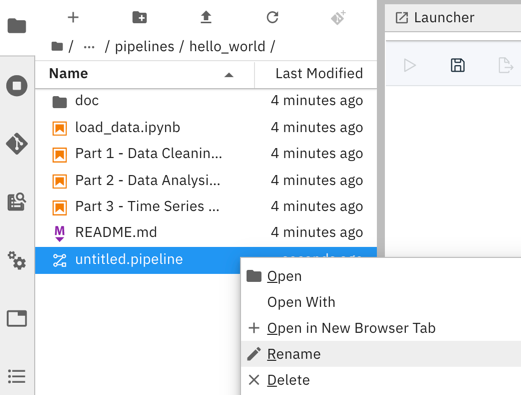
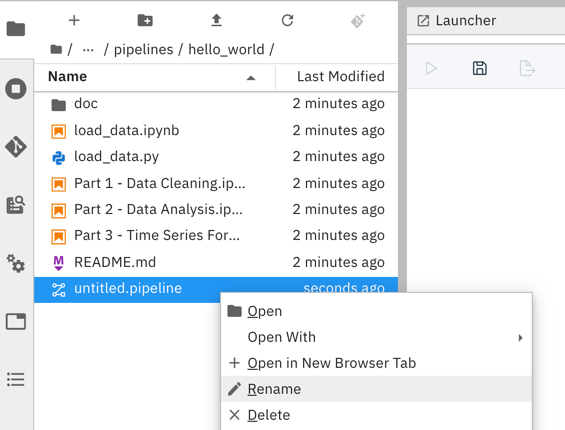
update hello_world example

diff --git a/pipelines/hello_world/load_data.py b/pipelines/hello_world/load_data.py
@@ -1,0 +1,51 @@
+#
+# Copyright 2020 IBM Corporation
+#
+# Licensed under the Apache License, Version 2.0 (the "License");
+# you may not use this file except in compliance with the License.
+# You may obtain a copy of the License at
+#
+# http://www.apache.org/licenses/LICENSE-2.0
+#
+# Unless required by applicable law or agreed to in writing, software
+# distributed under the License is distributed on an "AS IS" BASIS,
+# WITHOUT WARRANTIES OR CONDITIONS OF ANY KIND, either express or implied.
+# See the License for the specific language governing permissions and
+# limitations under the License.
+#
+import os
+from pathlib import Path
+import requests
+import tarfile
+from urllib.parse import urlparse
+
+
+if os.environ.get('DATASET_URL') is None:
+    raise RuntimeError('Cannot run script. Required environment variable DATASET_URL is not defined.')
+    
+data_file = os.environ['DATASET_URL']
+
+data_dir_name = 'data'
+
+print('Downloading data file {} ...'.format(data_file))
+r = requests.get(data_file)
+if r.status_code != 200:
+    raise RuntimeError('Could not fetch {}: HTTP status code {}'.format(data_file, r.status_code))
+else:
+    # extract data set file name from URL 
+    data_file_name = Path((urlparse(data_file).path)).name
+    # create the directory where the downloaded file will be stored
+    data_dir = Path(data_dir_name)    
+    data_dir.mkdir(parents=True, exist_ok=True)
+    downloaded_data_file = data_dir / data_file_name
+
+    print('Saving downloaded file "{}" as ...'.format(data_file_name))
+    with open(downloaded_data_file, 'wb') as downloaded_file:
+        downloaded_file.write(r.content)
+    
+    if r.headers['content-type'] == 'application/x-tar':
+        print('Extracting downloaded file in directory "{}" ...'.format(data_dir))
+        with tarfile.open(downloaded_data_file, 'r') as tar:
+            tar.extractall(data_dir)
+        print('Removing downloaded file ...')
+        downloaded_data_file.unlink()

diff --git a/pipelines/hello_world/README.md b/pipelines/hello_world/README.md
@@ -1,12 +1,12 @@
-## Getting started with notebook pipelines
+## Getting started with AI workflow pipelines
 
-A notebook pipeline comprises of notebook nodes that are connected with each other. 
+A workflow pipeline comprises of notebook nodes or Python script nodes that are connected with each other. 
 
-![The completed tutorial pipeline](doc/images/completed_tutorial_pipeline.png)
+![The completed tutorial pipeline](doc/images/tutorial_pipeline.png)
 
-In this tutorial you will learn how to create a notebook pipeline and run it in your local development environment. When you run a notebook pipeline in your local environment, each notebook is executed in a Kernel on the machine where JupyterLab is running, such as your laptop. Since resources on that machine might be limited local pipeline execution might not always be a viable option.
+In this tutorial you will learn how to create a workflow pipeline and run it in your local development environment. When you run a pipeline in your local environment, each notebook or Python script is executed in a Kernel on the machine where JupyterLab is running, such as your laptop. Since resources on that machine might be limited local pipeline execution might not always be a viable option.
 
- The [Hello World Kubeflow Pipelines tutorial](https://github.com/elyra-ai/examples/tree/master/pipelines/hello_world_kubeflow_pipelines) is similar to this tutorial but runs the notebook pipeline on Kubeflow Pipelines, enabling you to take advantage of shared compute resources in the cloud that might dramatically reduce pipeline processing time or allow for processing of much larger data volumes.
+ The [Hello World Kubeflow Pipelines tutorial](https://github.com/elyra-ai/examples/tree/master/pipelines/hello_world_kubeflow_pipelines) is similar to this tutorial but runs the pipeline on Kubeflow Pipelines, enabling you to take advantage of shared compute resources in the cloud that might dramatically reduce pipeline processing time or allow for processing of much larger data volumes.
 
 ### Prerequisites
 
@@ -44,29 +44,29 @@ You are ready to start the tutorial.
 
 Next, you'll add a notebook to the pipeline that downloads an open data set archive from public cloud storage.
 
-### Adding a notebook to the pipeline
+### Adding a notebook or script to the pipeline
 
-1. From the _File Browser_ pane drag the `load_data.ipynb` notebook onto the canvas.
+1. From the _File Browser_ pane drag the `load_data.ipynb` notebook onto the canvas. If you  like, you can add the `load_data.py` Python script instead. The script provides the same functionality as the notebook. The instructions below assume that you've added the notebook to the pipeline but the steps you need to complete are identical.
 
    ![Add first notebook to pipeline](doc/images/add_node.png)
 
-1. Right click on the `load_data` notebook node to customize its execution properties.
+1. Right click on the `load_data` node to customize its execution properties.
 
-   ![Open notebook node properties](doc/images/open_node_properties.png)
+   ![Open load_data node properties](doc/images/open_node_properties.png)
 
    Some of the properties are only required when you plan to run the pipeline on Kubeflows Pipelines. However, it is considered good practice to specify those properties to allow for easy migration from development to test and production. Details are in the instructions below.
 
-1. As _Runtime Image_ choose `Pandas`. The runtime image identifies the Docker image that is used to execute the notebook when the pipeline is run on Kubeflows Pipelines. This setting is ignored when you run the pipeline locally. This setting must always be specified.
+1. As _Runtime Image_ choose `Pandas`. The runtime image identifies the Docker image that is used to execute the notebook or Python script when the pipeline is run on Kubeflows Pipelines. This setting is ignored when you run the pipeline locally. This setting must always be specified.
 
    ![Configure runtime image](doc/images/configure_runtime_image.png)
 
-   If a notebook requires access to local files, such as Python scripts, you can specify them as _File Dependencies_. When you run a pipeline locally this setting is ignored because the notebook can access all (readable) files in your workspace. However, it is considered good practise to explicitly declare file dependencies to make the pipeline also runnable in environments where notebooks are executed isolated from each other.
+   If a notebook or script requires access to local files, such as Python scripts, you can specify them as _File Dependencies_. When you run a pipeline locally this setting is ignored because the notebook or script can access all (readable) files in your workspace. However, it is considered good practise to explicitly declare file dependencies to make the pipeline also runnable in environments where notebooks or scripts are executed isolated from each other.
 
-1. The `load_data.ipynb` notebook does not have any file dependencies. Leave the input field empty.
+1. The `load_data` notebook or script does not have any input file dependencies. Leave the input field empty.
 
     ![Configure file dependencies](doc/images/configure_file_dependencies.png)
 
-    If desired, you can customize additional notebook inputs by defining environment variables. The `load_data.ipynb` notebook requires environment variable `DATASET_URL`. This variable identifies the name and location of a data set file, which the code in this notebook will download and decompress. 
+    If desired, you can customize additional inputs by defining environment variables. The `load_data` notebook or script require environment variable `DATASET_URL`. This variable identifies the name and location of a data set file, which the notebook or script will download and decompress. 
     
 1. Assign environment variable `DATASET_URL` the value `https://dax-cdn.cdn.appdomain.cloud/dax-noaa-weather-data-jfk-airport/1.1.4/noaa-weather-data-jfk-airport.tar.gz`.
 
@@ -76,13 +76,13 @@ Next, you'll add a notebook to the pipeline that downloads an open data set arch
 
     ![Configure environment variables](doc/images/configure_environment_variables.png)
 
-    If the notebook generates files that other notebooks require access to, specify them as _Output Files_. This setting is ignored if you are running a pipeline locally because all notebooks have access to the same shared file system. However, it is considered good practise to declare these files to make the pipeline also runnable in environments where notebooks are executed in isoluation from each other.
+    If a notebook or script generates files that other notebooks or scripts require access to, specify them as _Output Files_. This setting is ignored if you are running a pipeline locally because all notebooks or scripts in a pipeline have access to the same shared file system. However, it is considered good practise to declare these files to make the pipeline also runnable in environments where notebooks or scripts are executed in isoluation from each other.
 
-1.  The notebook generates output file `data/noaa-weather-data-jfk-airport/jfk_weather.csv`, which other notebooks in this pipeline process.
+1.  `load_data` generates output file `data/noaa-weather-data-jfk-airport/jfk_weather.csv`, which other notebooks in this pipeline process.
 
     ![Configure output files](doc/images/configure_output_files.png)
 
-    > It is considered good pratice to specify paths that are relative to the notebook location.
+    > It is considered good pratice to specify paths that are relative to the notebook or script location.
 
 1. Select the `load_data` node and attach a comment to it.
 
@@ -96,7 +96,7 @@ Next, you'll add a notebook to the pipeline that downloads an open data set arch
 
    ![Add node comment](doc/images/add_comment_text.png)
 
-Next, you'll add a second notebook to the pipeline and connect it with the first notebook in such a way that it is executed _after_ the first notebook. This notebook cleans the data in  `data/noaa-weather-data-jfk-airport/jfk_weather.csv`, which the `load_data` notebook produced.
+Next, you'll add a data pre-processing notebook to the pipeline and connect it with the first notebook in such a way that it is executed _after_ the first notebook. This notebook cleans the data in  `data/noaa-weather-data-jfk-airport/jfk_weather.csv`, which the `load_data` notebook or script produced.
 
 ### Adding a second notebook to the pipeline
 
@@ -150,9 +150,9 @@ You can access output artifacts from the _File Browser_. In the screen capture b
 ### Next steps
 
 This concludes the Hello World tutorial. You've learned how to 
-- create a notebook pipeline
-- add and configure notebooks
-- run a notebook pipeline in a local environment
+- create a workflow pipeline
+- add and configure notebooks or Python scripts
+- run a workflow pipeline in a local environment
 - monitor the pipeline run progress
 - inspect the pipeline run results
 
